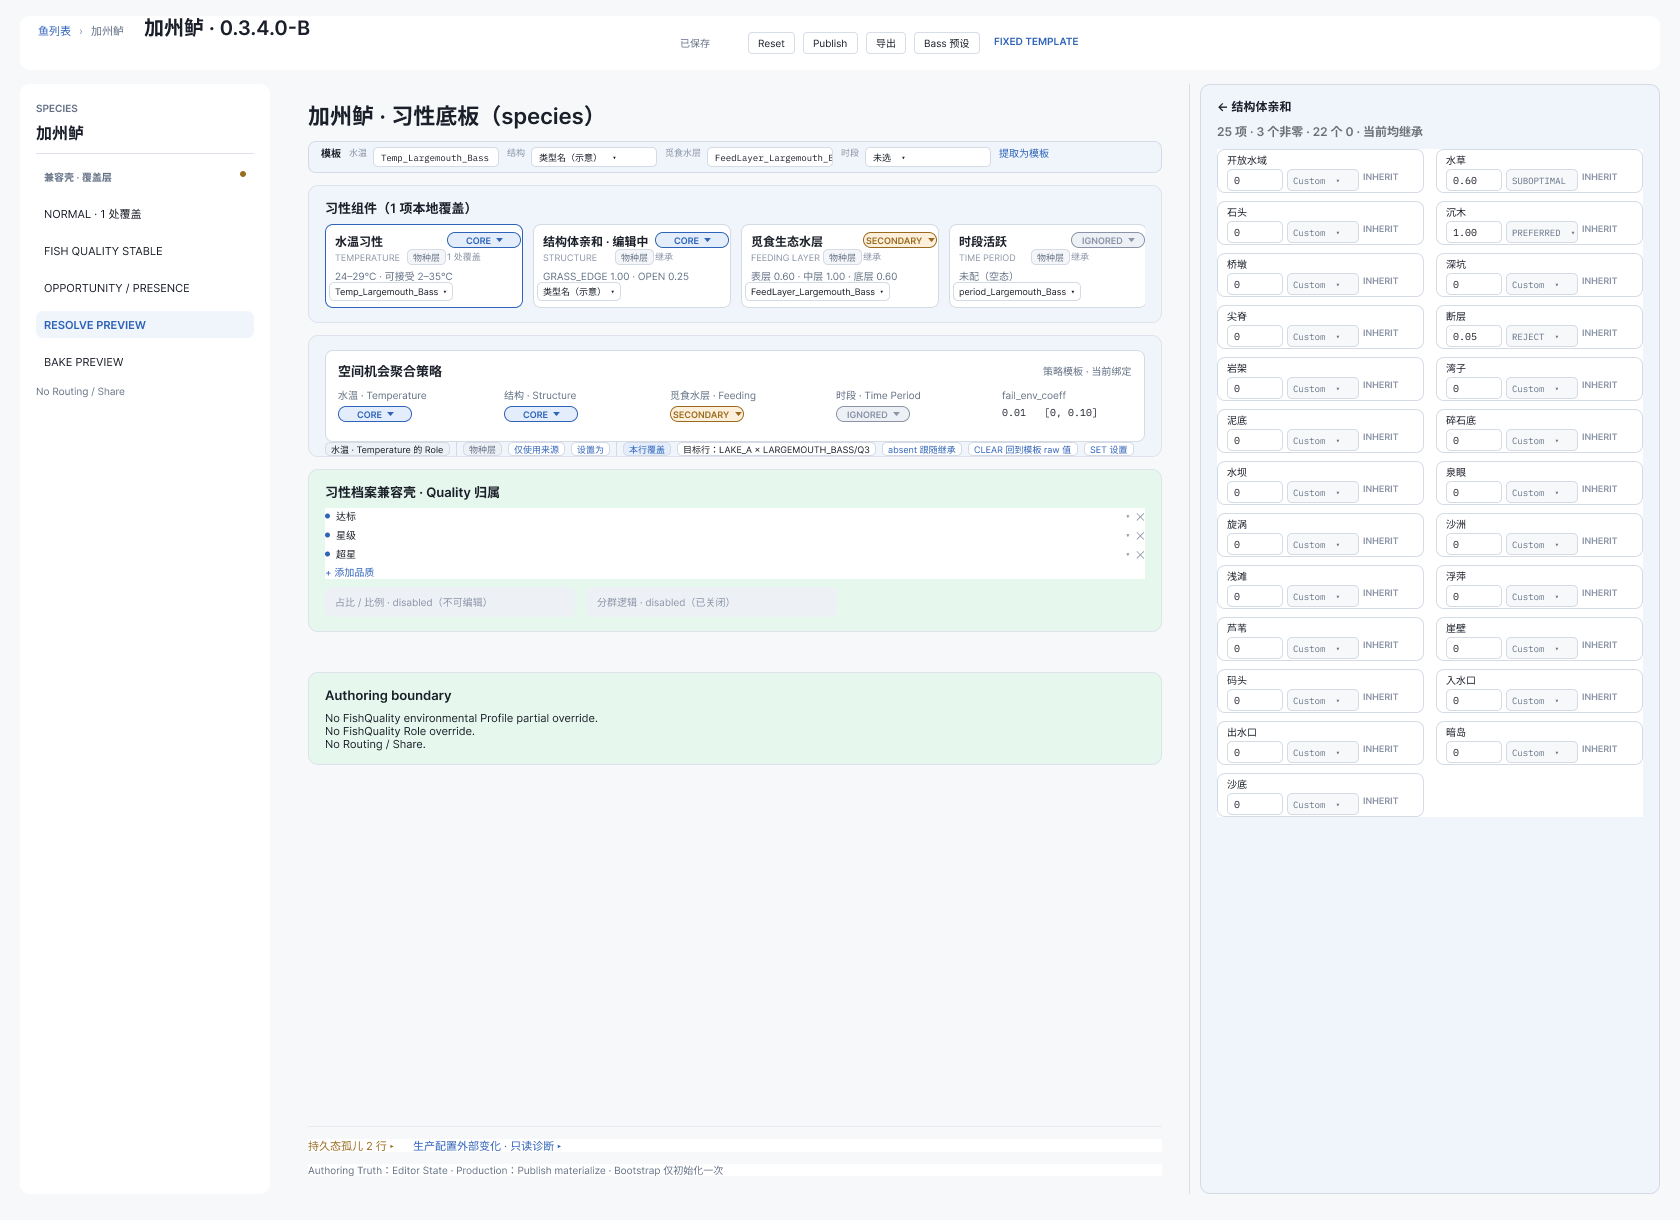
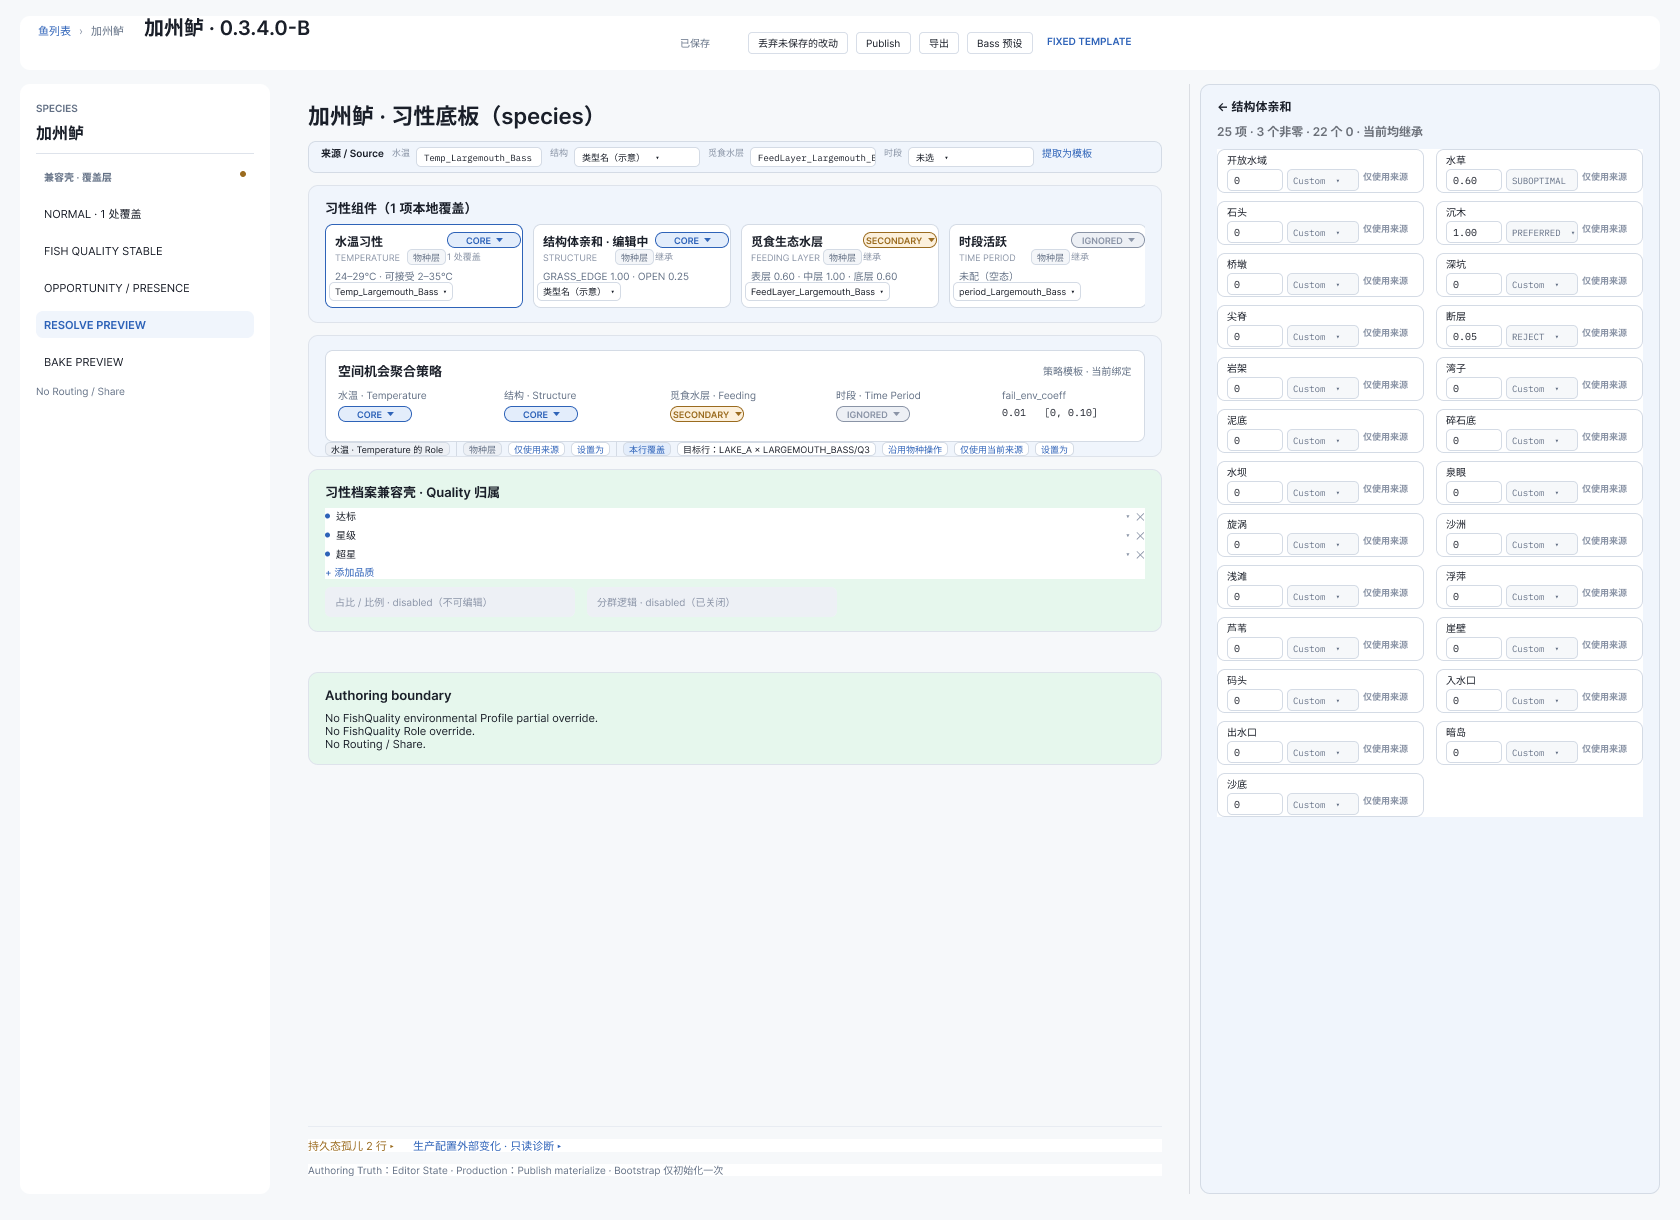
docs(review): re-export the pack images; add the author-surface Policy block; fix the wrong node
Re-exported with the same pipeline as REV-6 onward (REST /v1/images, scale=1):
- 108:311: 175189 -> 182744 (changed; top row + 25 LocalOp rows + topbar)
- 230:673: 24410 -> 24410 (byte-identical; state 10 was not touched)
- 176:283: 13485 -> 13485 (byte-identical)

The third one being identical was the signal. Checking the nodes: 176:283 is
SpatialOpportunityPolicy, type COMPONENT, at x=1040,y=6040 — it is the MASTER,
not on the author surface. The [04] chips that changed live in 108:364
(SpatialOpportunityPolicyBlock, FRAME, x=4628,y=335, inside 108:311) as overlay
nodes 242:676/678/680, which read back the new strings (沿用物种操作 /
仅使用当前来源 / 设置为).

So the pack's "policy" image never showed the author-surface block that the
projection is about. Added img/...-policy-block-108-364.png (21871 bytes) and
kept the master image, with a note in §六 and in the README telling readers which
one to cite for Policy current state.

diff --git a/docs/review/ui-component-contract-r2/figma-current.md b/docs/review/ui-component-contract-r2/figma-current.md
@@ -103,9 +103,14 @@
 
 | 文件 | node | 像素 | 字节 |
 |---|---|---|---|
-| `img/0.3.4.0-B-editor-structure-108-311.png` | `108:311` | 1680×1220 | 175189 |
-| `img/0.3.4.0-B-card2-state10-230-673.png` | `230:673` | 890×150 | 24410 |
-| `img/0.3.4.0-B-policy-176-283.png` | `176:283` | 820×92 | 13485 |
+| `img/0.3.4.0-B-editor-structure-108-311.png` | `108:311` | 1680×1220 | **182744**（本次重导：175189 → 182744） |
+| `img/0.3.4.0-B-card2-state10-230-673.png` | `230:673` | 890×150 | 24410（**逐字节未变**） |
+| `img/0.3.4.0-B-policy-176-283.png` | `176:283` | 820×92 | 13485（**逐字节未变**） |
+| `img/0.3.4.0-B-policy-block-108-364.png` | `108:364` | 854×122 | **21871**（本次新增） |
+
+★ **★ 2026-09-21 补拍说明（一处此前没被发现的口径错）**：`176:283` 的 name 是 **`SpatialOpportunityPolicy`**、type 是 **`COMPONENT`**，位置在 **`x=1040, y=6040`** —— 它是**母件**，**不在作者面上**。而本轮 `[04]` 改动的那三枚 chip 住在 **`108:364`（`SpatialOpportunityPolicyBlock`，FRAME，`x=4628,y=335`，在 `108:311` 内）**，其 overlay 节点是 `242:676`／`678`／`680`。
+⇒ **所以旧的第一版「Policy 图」拍的从来不是作者面那一块** —— 这也解释了「④ 改了而它逐字节未变」。
+⇒ **两张都留**（母件是合法对象、作者面那块才是投影证据），**但引用 Policy 现状时请用 `108:364` 那张**。
 
 **⚠ 一条判图纪律（本轮实测出来的）**：**「字节变了」不等于「内容变了」。** 三张图从上一版重导后，`108:311` 有**真内容差异**（`y=442–455`、`x=331–1123`，恰好一行 chip 的高度 —— 即 `Role 入口` → `水温 · Temperature 的 Role` 与新增的「目标行」）；而 `176:283`／`230:673` 的差异**只是圆角抗锯齿**（改动像素 64／100，**全在四角行**，每行 2–16 px）—— **那是渲染层差异，不是内容变化**。
 ⇒ **比图时不要只比字节/哈希；要落到「差异像素落在哪一行哪一列」**。

diff --git a/docs/review/ui-component-contract-r2/README.md b/docs/review/ui-component-contract-r2/README.md
@@ -18,7 +18,7 @@
 | `component-contract-consolidated.md` | 《组件契约（现行）》—— 两套并列材料对拍合并后的**汇编**（逐条带出处） |
 | `contract-cards.md` | **冻结卡**（执行投影）—— 实现按这个做 |
 | `figma-current.md` | Figma 侧现状（帧、投影组、记号约定、图与画布的对应） |
-| `img/` | **随包图像**（`scale=1`、整帧、不含 annotation；型号与指纹见 `figma-current.md` §六） |
+| `img/` | **随包图像 4 张**（`scale=1`、整帧、不含 annotation；型号与指纹见 `figma-current.md` §六）。★ **引用 Policy 现状请用 `108:364` 那张** —— `176:283` 是**母件**、不在作者面上（§六 有补拍说明）。 |
 | `archive-snapshot/` | ★ **归档消费者的像素级历史外观**（`FROZENSNAPSHOT-pre-*.png`，冻结版本 `2401504721345405021`）＋ **当前对照**（`CURRENT-*.png`）＋ **未变对照组**（`CONTROL-94-334-*.png`）＋ `MANIFEST.sha256`。**活体归档帧不再负责「非证据性 chrome」的逐像素一致 —— 那份责任由它承担**（**`OWNER-DECIDED`**：裁定 `ADJ-FIG-ARCHIVE-01`，见 `figma-current.md` §十一）。 |
 
 ## ★ 图证据的**射程**（读之前先知道你能核到什么）
